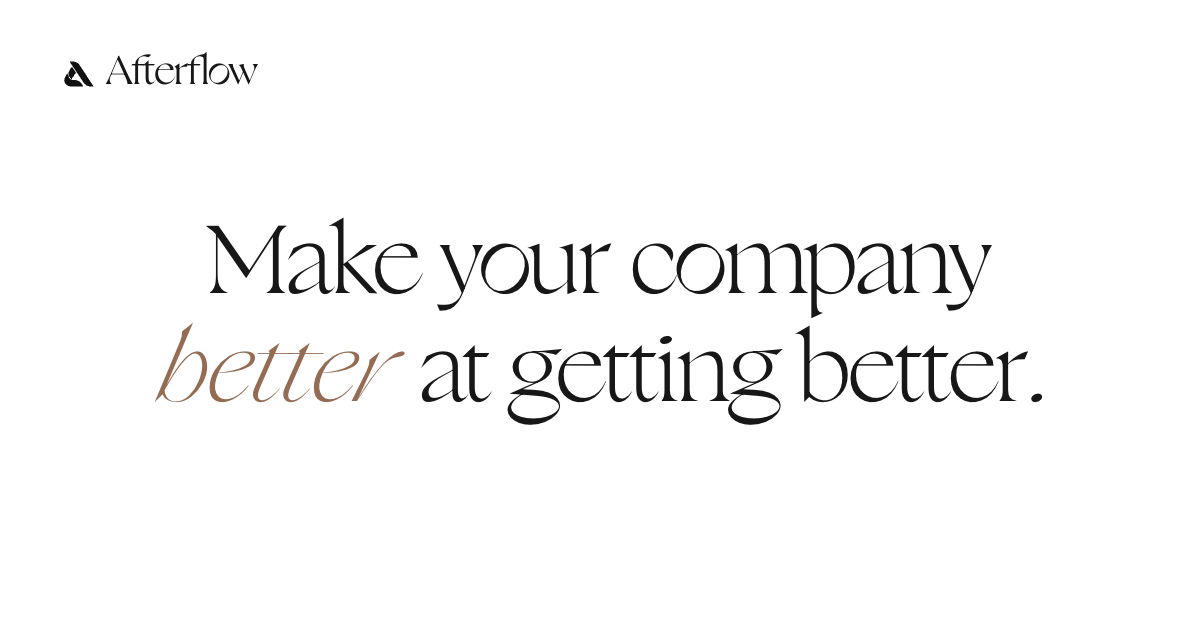
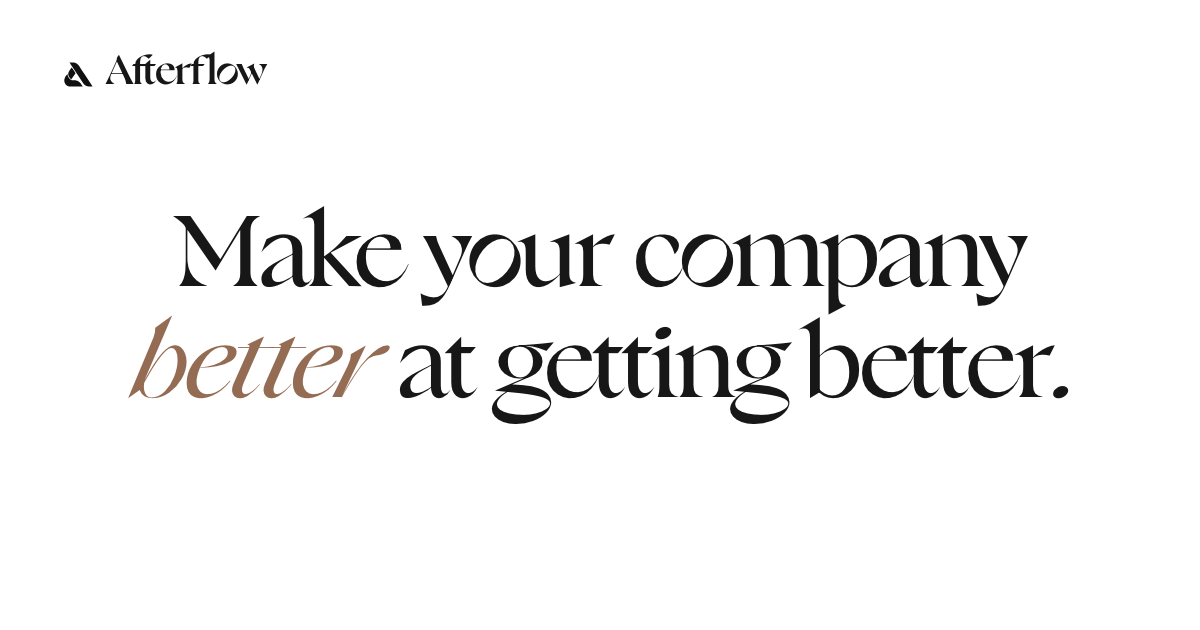
updated og image

Changed region(s): [[0.0925, 0.3317, 0.8942, 0.6937], [0.0925, 0.0905, 0.2158, 0.1508], [0.0617, 0.1206, 0.0925, 0.1508]]

diff --git a/afterflow/app/not-found.tsx b/afterflow/app/not-found.tsx
@@ -1,0 +1,27 @@
+import type { Metadata } from "next";
+import { SiteHeader } from "@/components/site-header";
+import { SiteFooter } from "@/components/site-footer";
+import AnimatedButton from "@/components/ui/animated-button";
+import { ArrowUpRight } from "@/components/ui/arrow-up-right";
+
+export const metadata: Metadata = {
+  title: "Page not found",
+  robots: { index: false, follow: true },
+};
+
+export default function NotFound() {
+  return (
+    <>
+      <a className="skip-link" href="#not-found-content">Skip to content</a>
+      <SiteHeader />
+      <main className="not-found-page shell" id="not-found-content" data-header-stick>
+        <div>
+          <h1>Page not found.</h1>
+          <p>This page may have moved, or the link may be incorrect.</p>
+          <AnimatedButton as="a" href="/">Back to home <ArrowUpRight /></AnimatedButton>
+        </div>
+      </main>
+      <SiteFooter topHref="#not-found-content" />
+    </>
+  );
+}

diff --git a/afterflow/app/globals.css b/afterflow/app/globals.css
@@ -264,6 +264,11 @@ details[open] > summary > .disclosure-icon { transform: rotate(45deg); }
 .article footer { margin-top: 60px; padding-top: 40px; border-top: 1px solid var(--line); }
 .article footer h2 { font-size: 34px; margin-bottom: 20px; }
 
+.not-found-page { min-height: var(--chapter-height); display: grid; align-items: center; padding-block: 80px; }
+.not-found-page h1 { font-size: clamp(44px, 7.6vw, 104px); }
+.not-found-page p { max-width: 45ch; margin-top: 24px; }
+.not-found-page .animated-button { margin-top: 32px; }
+
 
 
 

diff --git a/afterflow/lib/site.ts b/afterflow/lib/site.ts
@@ -32,7 +32,7 @@ export const siteConfig = {
   socialDescription:
     "Make your company better at getting better. Afterflow simulates your business, builds the right AI solution and learns from every rollout.",
   socialImage: {
-    url: "/opengraph-image.png?v=28",
+    url: "/opengraph-image.png?v=29",
     width: 1200,
     height: 630,
     alt: "Afterflow — Make your company better at getting better.",

diff --git a/afterflow/DESIGN.md b/afterflow/DESIGN.md
@@ -76,6 +76,8 @@ Cascading letters, restrained reveals and diagram drawing support the reading se
 
 The audience carousel cycles infinitely every six seconds, settling over 650ms into a stable-height reading position. Pointer swipes follow the finger or mouse directly before settling; vertical scrolling and pinch zoom remain available. Previous/next buttons, arrow keys and five pagination buttons provide manual navigation. A persistent pause/resume control keeps automatic cycling stopped until resumed; temporary pauses apply offscreen, in hidden tabs and during hover, focus or touch. Only manual changes are announced. Without JavaScript, all five audience cards appear in document order. Reduced motion disables autoplay, track movement transitions, card opacity transitions and pagination transitions; the pause control is disabled when automatic cycling is unavailable. Across the site, reduced motion also disables drawing and smooth scrolling.
 
-Keep essential copy server-rendered. Home-only illustration CSS should remain scoped to the homepage. Solare is preloaded for the hero; Novela uses normal font discovery. The shared social preview is `app/opengraph-image.png`, described in `lib/site.ts`.
+Keep essential copy server-rendered. Home-only illustration CSS should remain scoped to the homepage. Solare is preloaded for the hero; Novela uses normal font discovery. The shared social preview is `app/opengraph-image.png`, described in `lib/site.ts`. Re-export it with `pnpm render:social` after display typography changes; the renderer reads the current display and wordmark tokens directly from `app/globals.css`.
 
 Home, Insights and articles share `SiteHeader` and `SiteFooter`. Navigation labels and the demo CTA live in `lib/navigation.ts`; article closing actions use the same outlined button as the homepage. Research prose stays in Novela, with the shared Solare heading weights.
+
+The not-found page also uses the shared header, footer, Solare display heading and Novela reading text, with a direct link back to the homepage.

diff --git a/afterflow/README.md b/afterflow/README.md
@@ -25,6 +25,7 @@ Open `http://localhost:3000`.
 | `app/insights/` | Insights index and article routes |
 | `lib/site.ts` | Canonical origin, search metadata and social image descriptor |
 | `app/opengraph-image.png` | Current 1200×630 social preview |
+| `scripts/render-social-image.mjs` | Rebuilds the social preview from the original fonts and current CSS tokens |
 | `assets/fonts/` | Five fonts used by `next/font/local` |
 | `public/` | Brand mark and favicon assets |
 | `scripts/check-export.mjs` | Static export validation used locally and in CI |
@@ -42,6 +43,13 @@ pnpm check:export
 Build output goes to `out/`. Export validation checks route metadata, structured data, canonical URLs, robots/sitemap, local resources, anchors and favicon assets. Generated build output, local review captures and tooling caches are ignored; commit source changes and `pnpm-lock.yaml` when dependencies change.
 
 The root [GitHub Pages workflow](../.github/workflows/deploy-pages.yml) runs these checks with a frozen lockfile before uploading `out/`. Site or workflow changes on `main` deploy automatically; `workflow_dispatch` also permits a manual run. The custom domain is configured in Pages settings, without a repository `CNAME` file.
+
+After changing display typography, run `pnpm render:social` with an isolated Chrome
+listening on debugging port 9257 (or set `SOCIAL_BROWSER_URL`). It regenerates the
+1200×630 PNG using the current display and wordmark tokens from `app/globals.css`.
+Increase the version in `siteConfig.socialImage.url` when replacing the image so
+Research, articles and Twitter previews request the updated asset. The homepage
+Open Graph tag also receives Next.js's automatic image content hash.
 
 ## Canonical URLs and search
 
